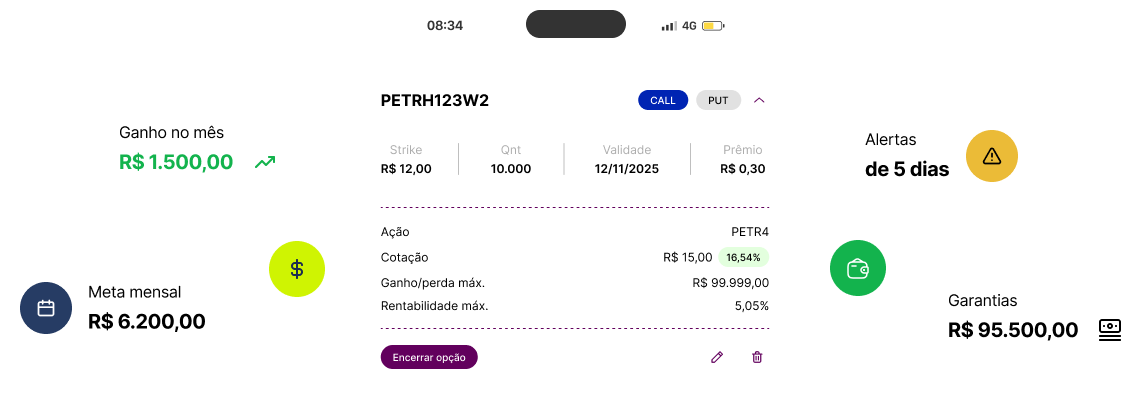
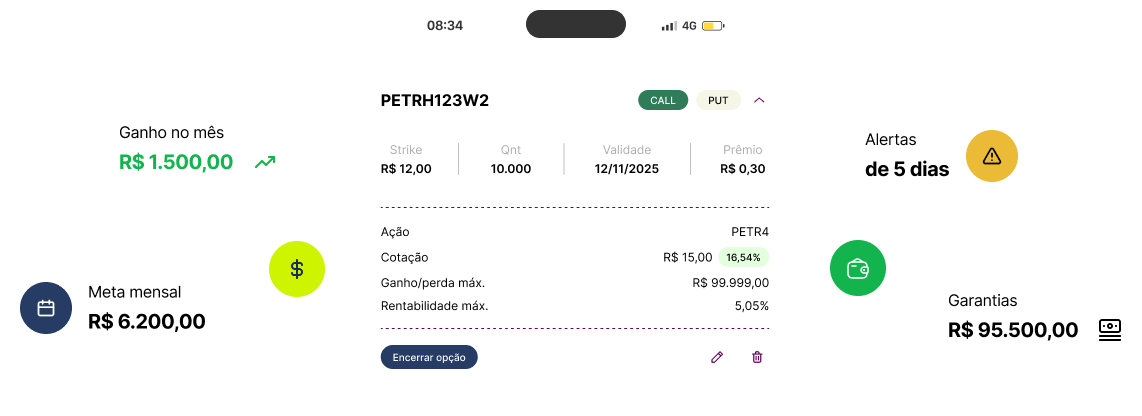
ajustes visuais no dash e pag login nova

Changed region(s): [[0.3065, 0.8125, 0.4291, 0.9062], [0.5517, 0.2188, 0.613, 0.2812]]

diff --git a/src/pages/Auth.tsx b/src/pages/Auth.tsx
@@ -8,6 +8,7 @@ import { toast } from "sonner";
 import { useNavigate, useSearchParams } from "react-router-dom";
 import { DollarSign, Heart } from "lucide-react";
 import { Alert, AlertDescription } from "@/components/ui/alert";
+import lontralogin from "@/assets/lontra-login.png";
 
 export default function Auth() {
   const [searchParams] = useSearchParams();
@@ -56,23 +57,48 @@ export default function Auth() {
   };
 
   return (
-    <div className="min-h-screen flex items-center justify-center bg-background p-4">
-      <Card className="w-full max-w-md shadow-modern glass">
+    <div className="min-h-screen flex bg-gradient-to-br from-brand-purple via-brand-purple-dark to-[#1C2E51]">
+              <div className="absolute inset-0 pointer-events-none bg-[radial-gradient(circle_at_30%_50%,rgba(255,255,255,0.1),transparent_50%)]"></div>
+
+
+      {/* Lado Esquerdo - Imagem da Lontra (oculto no mobile) */}
+      <div className="hidden lg:flex lg:w-1/2 relative overflow-hidden p-1">
+         {/* Título sobreposto */}
+         <div className="absolute bottom-[58%] left-16 z-10">
+    <h1 className="text-6xl font-bold text-[#EBDECE] leading-tight">
+      Ottie ops
+    </h1>
+    <h1 className="text-4xl font-light text-[#EBDECE] leading-tight opacity-60">
+      bora ter controle!
+    </h1>
+        </div>
+  
+  {/* Imagem */}        
+        <img 
+          src={lontralogin} 
+          alt="Lontra Login" 
+          className="w-full h-auto object-contain max-h-screen"
+        />
+      </div>
+
+      {/* Lado Direito - Card de Login */}
+      <div className="flex-1 lg:w-1/2 flex items-center justify-center pl-0 pr-1 py-1">
+         <Card className="w-full max-w-md shadow-2xl drop-shadow-2xl glass">
         <CardHeader className="space-y-1">
           <CardTitle className="text-2xl font-bold text-center">
-            {isLogin ? 'Entrar' : 'Criar conta'}
+            {isLogin ? 'Entrar' : 'Crie sua conta'}
           </CardTitle>
           <CardDescription className="text-center">
             {isLogin 
-              ? 'Entre com suas credenciais para acessar a plataforma' 
-              : 'Crie sua conta para começar a usar a plataforma'}
+              ? 'Opções no controle, lucro na veia!' 
+              : 'Monte seu time de opções e entre no jogo!'}
           </CardDescription>
         </CardHeader>
         <CardContent>
           <form onSubmit={handleSubmit} className="space-y-4">
             {!isLogin && (
               <div className="space-y-2">
-                <Label htmlFor="nome">Nome</Label>
+                <Label htmlFor="nome">Nome completo</Label>
                 <Input
                   id="nome"
                   type="text"
@@ -141,6 +167,7 @@ export default function Auth() {
           </Alert>
         </CardContent>
       </Card>
+    </div>
     </div>
   );
 }

diff --git a/src/components/opcoes/EditarOpcaoModal.tsx b/src/components/opcoes/EditarOpcaoModal.tsx
@@ -221,7 +221,7 @@ export function EditarOpcaoModal({
                 <Button
                   variant="outline"
                   className={cn(
-                    "w-full justify-start text-left font-normal",
+                    "w-full justify-start text-left font-normal h-10 rounded-md border border-input bg-background px-3 py-2 text-sm ring-offset-background",
                     !formData.data && "text-muted-foreground"
                   )}
                 >
@@ -253,7 +253,7 @@ export function EditarOpcaoModal({
             <Button type="button" variant="outline" onClick={onClose}>
               Cancelar
             </Button>
-            <Button type="submit" style={{ backgroundColor: '#61005D' }}>
+            <Button type="submit" variant="default">
               Salvar
             </Button>
           </div>

diff --git a/src/components/ui/button.tsx b/src/components/ui/button.tsx
@@ -13,7 +13,7 @@ const buttonVariants = cva(
         destructive:
           "bg-destructive text-destructive-foreground hover:bg-destructive/90",
         outline:
-          "border border-input bg-background hover:bg-accent hover:text-accent-foreground",
+         "bg-transparent hover:bg-accent hover:text-accent-foreground",
         secondary:
           "bg-secondary text-secondary-foreground hover:bg-secondary/80",
         ghost: "hover:bg-accent hover:text-accent-foreground",

diff --git a/src/components/opcoes/EncerrarOpcaoModal.tsx b/src/components/opcoes/EncerrarOpcaoModal.tsx
@@ -235,7 +235,7 @@ export const EncerrarOpcaoModal = ({
             <Button type="button" variant="outline" onClick={onClose}>
               Cancelar
             </Button>
-            <Button type="submit" disabled={loading} className="bg-primary hover:bg-primary/90 text-primary-foreground">
+            <Button type="submit" disabled={loading} variant="default">
               {loading ? "Encerrando..." : "Confirmar encerramento"}
             </Button>
           </DialogFooter>

diff --git a/src/components/opcoes/EditarEncerramentoModal.tsx b/src/components/opcoes/EditarEncerramentoModal.tsx
@@ -107,7 +107,7 @@ export function EditarEncerramentoModal({
                 <Button
                   variant="outline"
                   className={cn(
-                    "w-full justify-start text-left font-normal",
+                    "w-full justify-start text-left font-normal h-10 rounded-md border border-input bg-background px-3 py-2 text-sm ring-offset-background",
                     !formData.data && "text-muted-foreground"
                   )}
                 >
